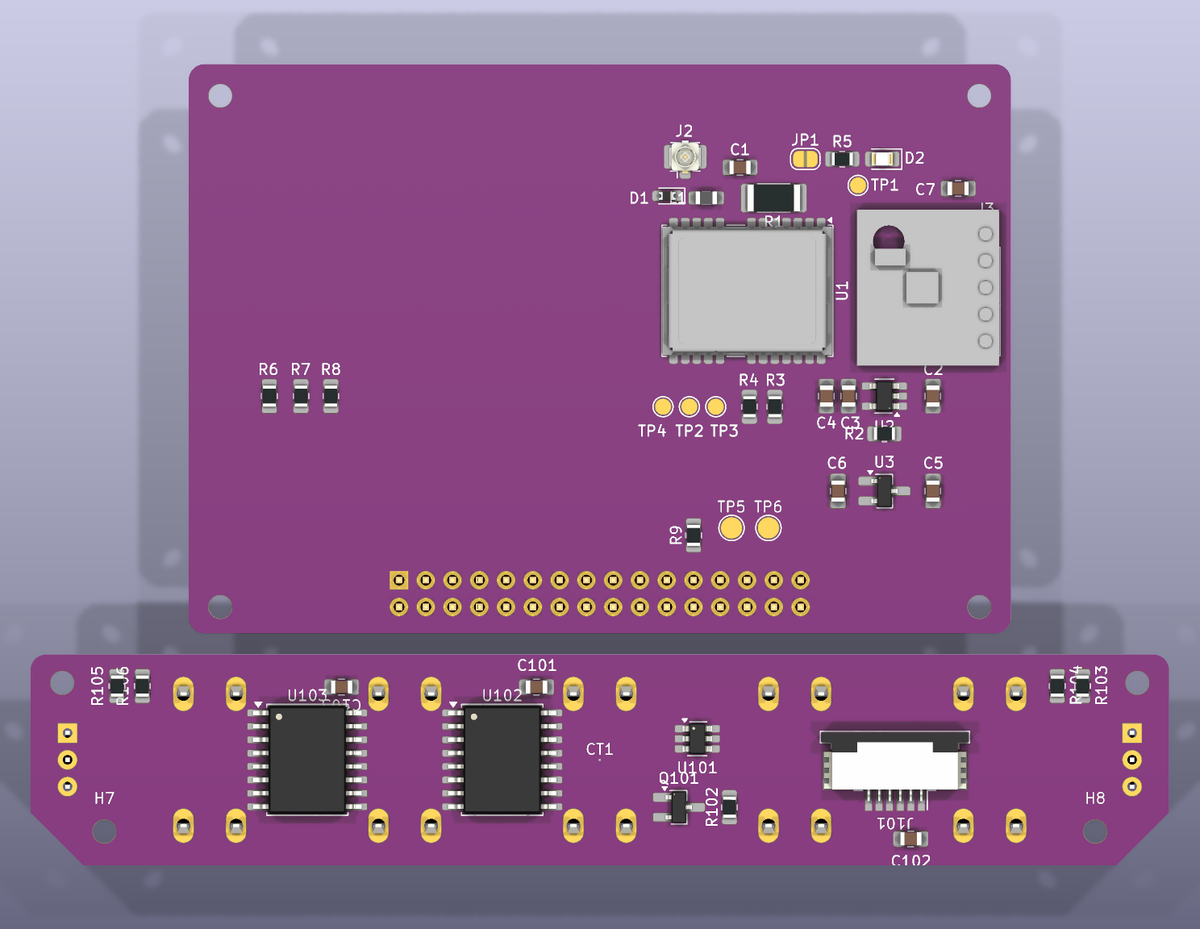
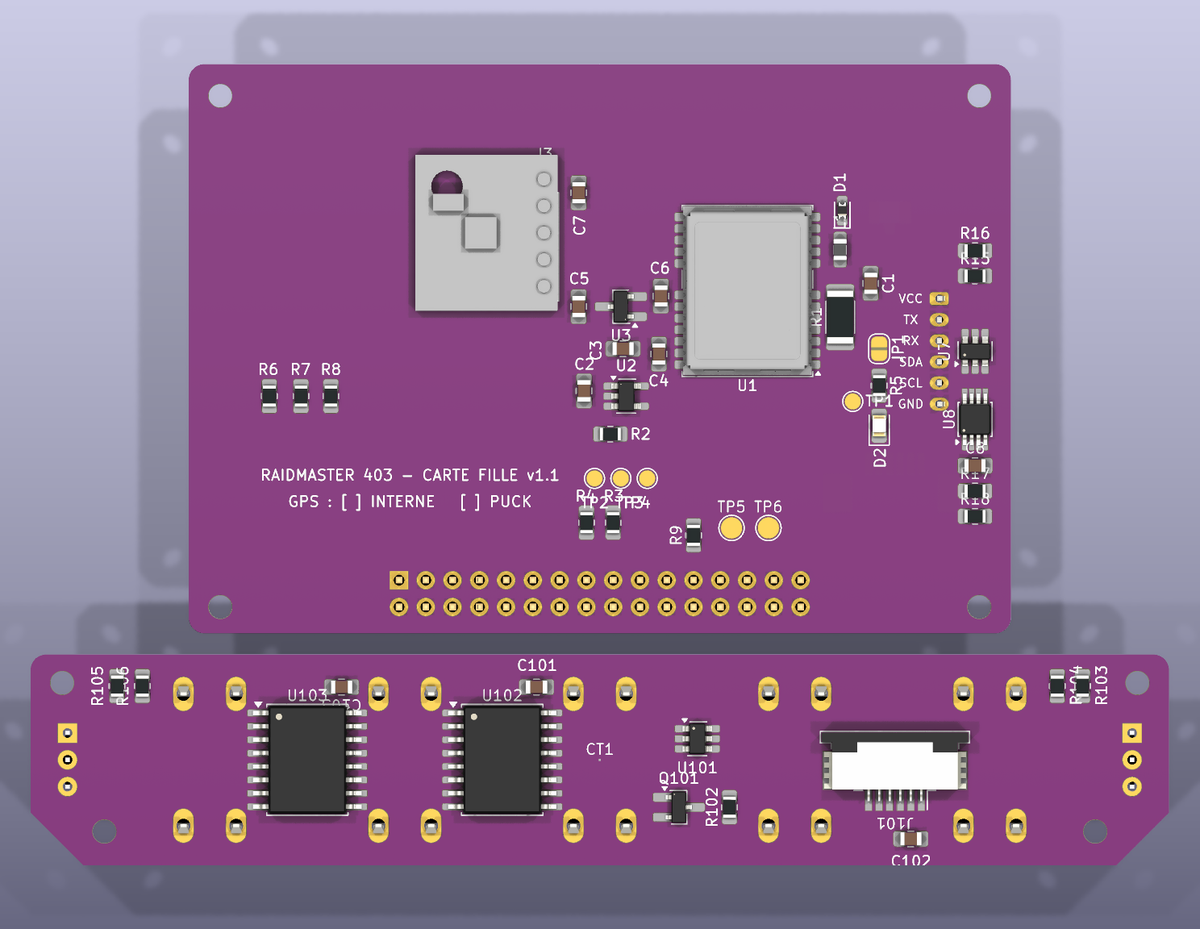
README : rendus des cartes d'après le PCB v1.1

Changed region(s): [[0.2158, 0.1249, 0.8633, 0.5931], [0.8942, 0.8428, 0.925, 0.8741]]

diff --git a/README.md b/README.md
@@ -64,8 +64,8 @@ I²C pour le branchement à chaud) ; la **carte boutons**
 rejoint la carte fille par une nappe souple de 6 voies. Tout se soude au fer.
 
 <p align="center">
-  <img src="docs/demo/pcb-dessus.png" alt="Les deux cartes vues de dessus : GPS, boussole et régulateurs sur la carte fille ; expandeurs et connecteur de nappe au dos de la carte boutons" width="410">
-  <img src="docs/demo/pcb-dessous.png" alt="Les deux cartes vues de dessous : connecteur 2 × 16 vers la Waveshare et connecteur de nappe sur la carte fille ; poussoirs et voyants de la carte boutons" width="410">
+  <img src="docs/demo/pcb-dessus.png" alt="Les deux cartes vues de dessus : GPS, boussole, régulateurs et protection de la prise du puck sur la carte fille ; expandeurs et connecteur de nappe au dos de la carte boutons" width="410">
+  <img src="docs/demo/pcb-dessous.png" alt="Les deux cartes vues de dessous : connecteur 2 × 16 vers la Waveshare, connecteur de nappe, prise JST-PH du puck et prise d'antenne U.FL sur la carte fille ; poussoirs et voyants de la carte boutons" width="410">
 </p>
 
 <p align="center"><sub>Rendus du visualiseur 3D de KiCad, dessus (côté batterie) et dessous (côté écran) : composants placés, routage à venir.</sub></p>
